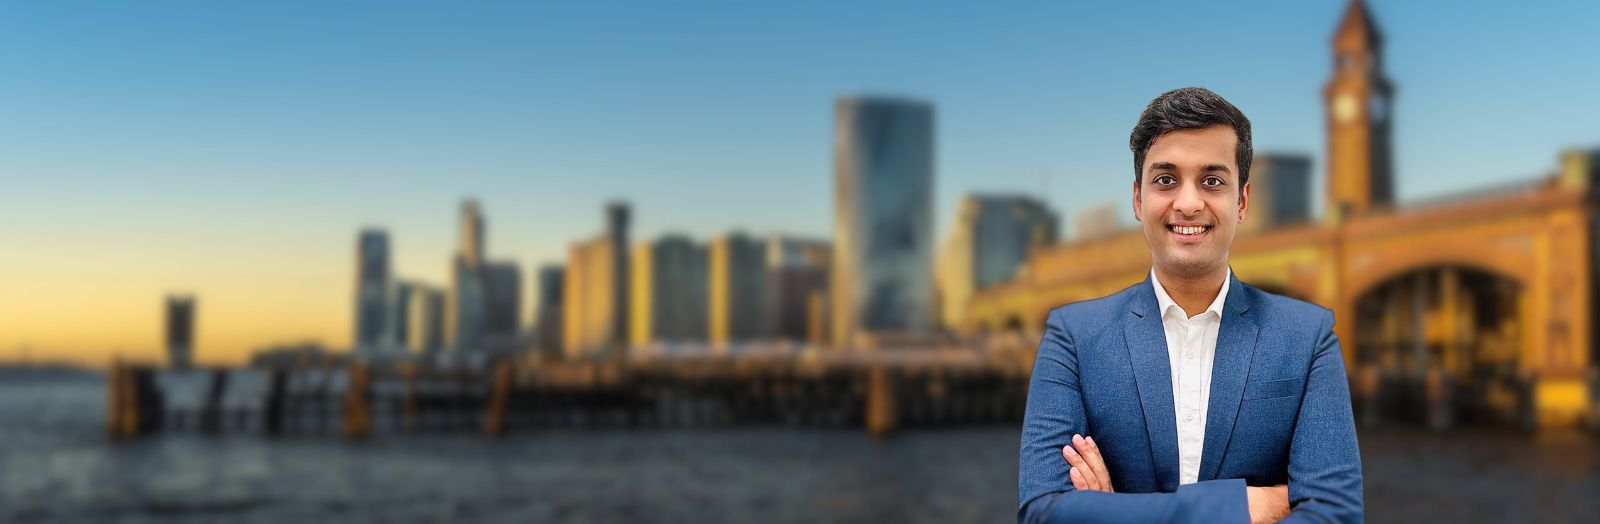
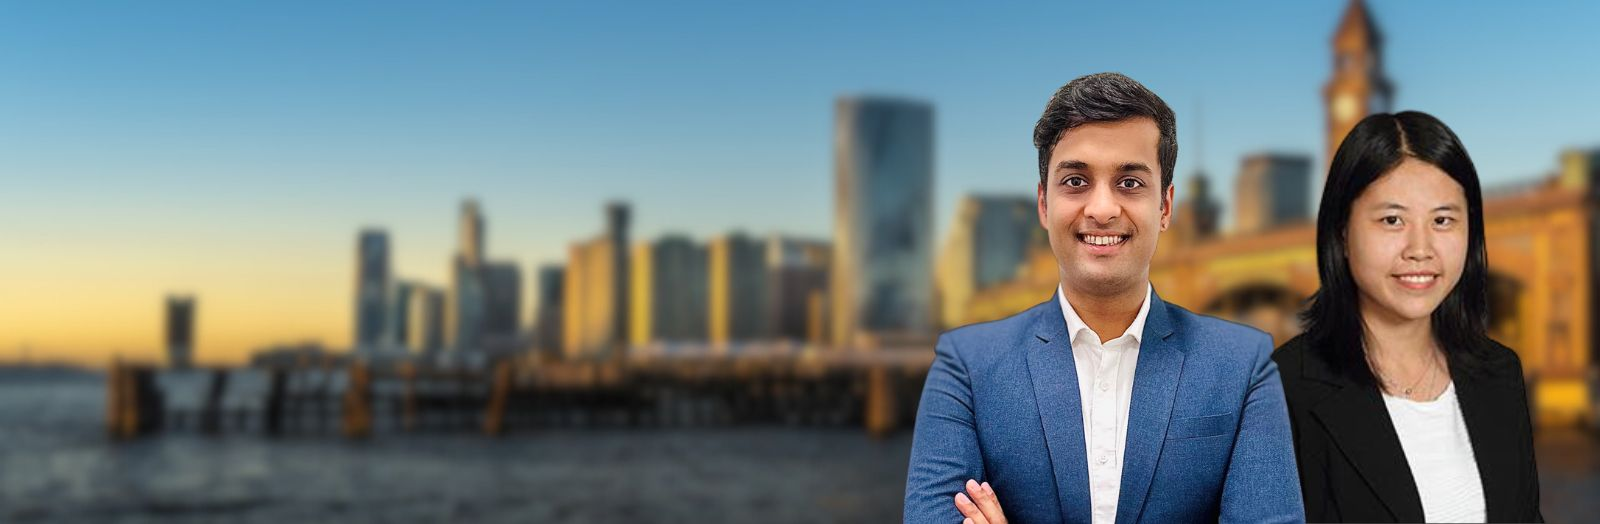
stable udpate for the day

Changed region(s): [[0.5625, 0.1221, 0.9688, 1.0]]

diff --git a/index.html b/index.html
@@ -1,0 +1,6 @@
+<!--
+---
+layout: home
+author_profile: true
+---
+-->

diff --git a/_pages/home.md b/_pages/home.md
@@ -3,11 +3,11 @@ layout: splash
 permalink: /
 hidden: true
 header:
-  overlay_color: "#5e616c"
+  overlay_color: "#f26722"
   overlay_image: /assets/images/mm-home-page-feature.jpg
   actions:
-    - label: "<i class='fas fa-download'></i> Learn More"
-      url: "/docs/quick-start-guide/"
+    - label: "Find My Home"
+      url: "https://sumitaggarwal.exprealty.com/"
 excerpt: >
   Find your dream home today with us.<br />
   <small><a href="https://sumitaggarwal.exprealty.com/">Clieck Here To Search For Properties</a></small>
@@ -16,30 +16,34 @@ feature_row:
     alt: "customizable"
     title: "Partner With Me"
     excerpt: "Learn how to become a Modern Agent that drives more leads and closes more deals. Join my real estate group to get all of my training and resources for FREE!"
-    url: "/docs/configuration/"
+    url: "/_pages/partner_with_me/"
     btn_class: "btn--primary"
     btn_label: "Learn more"
   - image_path: /assets/images/online-training.png
     alt: "fully responsive"
     title: "Online Trainings"
     excerpt: "Looking to learn more about real estate marketing and how to generate more leads? My training is a great way to learn marketing and grow your real estate business."
-    url: "/docs/layouts/"
+    url: "/_pages/partner_with_me/"
     btn_class: "btn--primary"
     btn_label: "Learn more"
-  - image_path: /assets/images/mm-customizable-feature.png
+  - image_path: /assets/images/zoom-call.png
     alt: "customizable"
-    title: "Partner With Me"
-    excerpt: "Learn how to become a Modern Agent that drives more leads and closes more deals. Join my real estate group to get all of my training and resources for FREE!"
-    url: "/docs/configuration/"
+    title: "Weekly Private Mastermind Calls"
+    excerpt: "Lead by the top agents in the business like Mike Sherrard, Connor Steinbrooke and others."
+    url: "/_pages/partner_with_me/"
     btn_class: "btn--primary"
-    btn_label: "Learn more"
-  - image_path: /assets/images/mm-free-feature.png
-    alt: "100% free"
-    title: "Invest"
-    excerpt: "Maximize Your Investment!"
-    url: "/docs/license/"
-    btn_class: "btn--primary"
-    btn_label: "Learn more"      
+    btn_label: "Learn more"  
 ---
 
+<!-- KvCore widget to search home-->
+<iframe style="width: 100%; height:550px;" src="https://sumitaggarwal.exprealty.com/wide.php" allowtransparency="true" frameBorder="0"> </iframe>
+
+<!-- Google Review pull from elfsight-->
+<script src="https://apps.elfsight.com/p/platform.js" defer></script>
+<div class="elfsight-app-2be02f20-bcac-41c0-80cf-9486c889ae62"></div>
+
+<!-- KvCore widget-->
+<iframe style="width:100%; height:160px;" src="https://sumitaggarwal.exprealty.com/sellembed.php" allowtransparency="true" frameBorder="0"> </iframe>
+
+# For Real Estate Agents
 {% include feature_row %}

diff --git a/_pages/partner_with_me.md b/_pages/partner_with_me.md
@@ -1,0 +1,43 @@
+---
+title: "Partner With Me"
+# permalink: /partner_with_me/
+tagline: "Join the most technologically advanced global real estate group with the fastest-growing brokerage in the world."
+header:
+  overlay_image: /assets/images/hoboken.png
+  caption: ""
+categories:
+  - Layout
+  - Uncategorized
+tags:
+  - edge case
+  - image
+  - layout
+last_modified_at: 2023-12-08T13:05:25-05:00
+
+feature_row:
+  - image_path: /assets/images/hand-shake.png
+    alt: "customizable"
+    title: "Partner With Me"
+    excerpt: "Learn how to become a Modern Agent that drives more leads and closes more deals. Join my real estate group to get all of my training and resources for FREE!"
+    url: "https://calendly.com/sumitaggarwal/introcall"
+    btn_class: "btn--primary"
+    btn_label: "Learn more"
+  - image_path: /assets/images/online-training.png
+    alt: "fully responsive"
+    title: "Online Trainings"
+    excerpt: "Looking to learn more about real estate marketing and how to generate more leads? My training is a great way to learn marketing and grow your real estate business."
+    url: "https://calendly.com/sumitaggarwal/introcall"
+    btn_class: "btn--primary"
+    btn_label: "Learn more"
+  - image_path: /assets/images/zoom-call.png
+    alt: "customizable"
+    title: "Weekly Private Mastermind Calls"
+    excerpt: "Lead by the top agents in the business like Mike Sherrard, Connor Steinbrooke and others."
+    url: "https://calendly.com/sumitaggarwal/introcall"
+    btn_class: "btn--primary"
+    btn_label: "Learn more"
+---
+
+We make Everything **FREE** for our **Team of Real Estate Agents**, so that you can excel your personal brand and business.
+
+{% include feature_row %}

diff --git a/_pages/team.md b/_pages/team.md
@@ -1,0 +1,21 @@
+---
+layout: single
+title: "Sumit Aggarwal Homes Team"
+# permalink: /team/
+date: 2018-11-19T10:47:58+10:00
+header:
+  image: /assets/images/team.png
+promoted: true
+weight: 1
+---
+
+Sumit Aggarwal Homes is a real estate group based in New Jersey. We believe in conducting research, performing thorough due diligence, and delivering goals-driven strategies. We are marketing strategists; supporting our clients through high converting tactics, bringing added exposure to listings. We provide clients with investment strategies to build, grow, and protect their cash flow portfolios.
+
+<figure class="half">
+    <a href="/assets/images/sumit_150.png"><img src="/assets/images/sumit_150.png"></a>
+    <a href="/assets/images/shabai_150.png"><img src="/assets/images/shabai_150.png"></a>
+    <figcaption>Our aim is to work hard to find you the best outcome.</figcaption>
+</figure>
+
+<!-- KvCore widget to search home-->
+<iframe style="width: 600px; height:330px;" src="https://sumitaggarwal.exprealty.com/wide.php" allowtransparency="true" frameBorder="0"> </iframe>

diff --git a/_pages/property_tours.md b/_pages/property_tours.md
@@ -1,5 +1,6 @@
 ---
 title: "Property Tours"
+# permalink: /property_tours/
 header:
   video:
     id: owXqPrYSo6Q
@@ -12,7 +13,7 @@ tags:
   - layout
 ---
 
-### Subscribe me on YouTube
+# Subscribe me on YouTube
 
 {% include video id="ni3CJM7Wqz8" provider="youtube" %}
 
